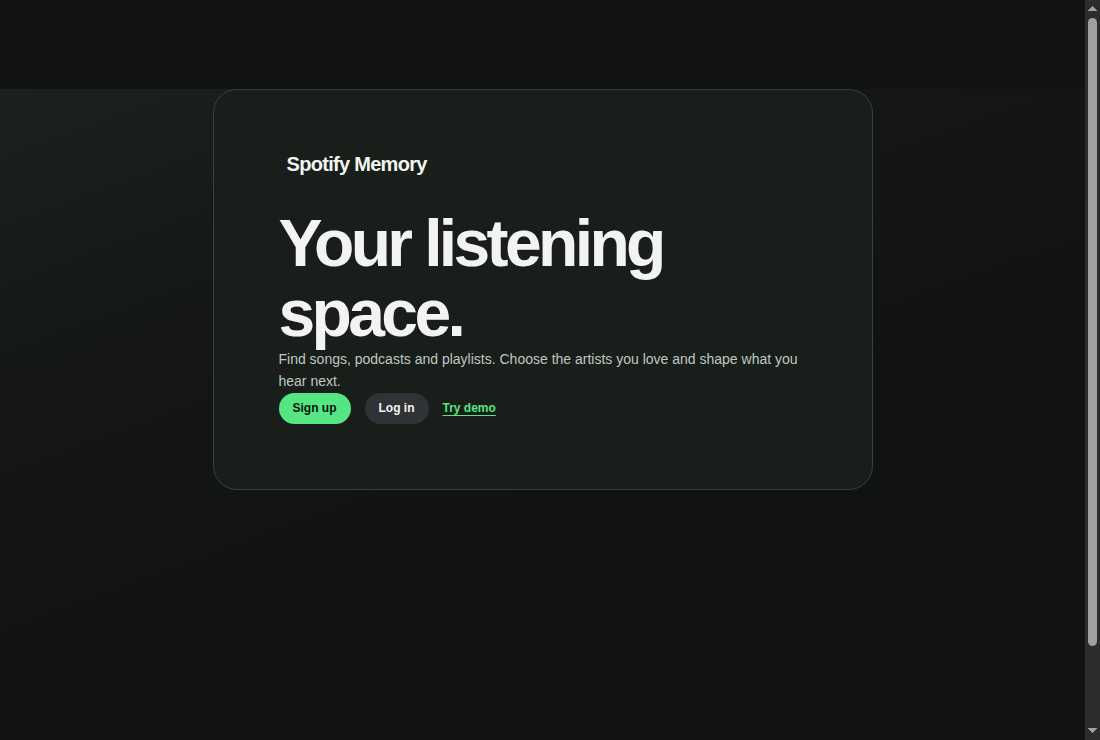
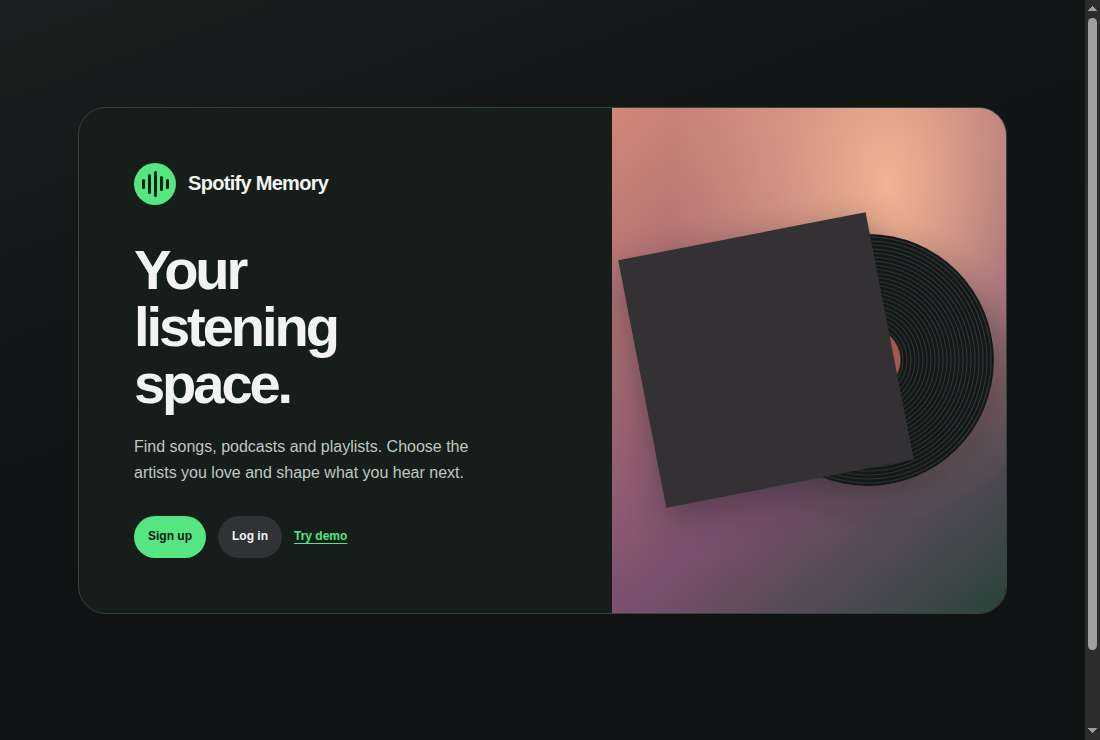
Update screenshots and verify each completed filter change

Changed region(s): [[0.1236, 0.1243, 0.9273, 0.8392], [0.1236, 0.6838, 0.34, 0.777], [0.9891, 0.8703, 1.0, 0.9014]]

diff --git a/tests/browser.test.js b/tests/browser.test.js
@@ -47,30 +47,24 @@ test('desktop and narrow listening desk supports account signup, feedback and gu
     if(result.exceptionDetails)throw Error(result.exceptionDetails.exception?.description || 'Page evaluation failed');
     return result.result.value;
   }
-  async function snapshot(name){
-    if(!process.env.GITHUB_ACTIONS)return;
-    const {data}=await send('Page.captureScreenshot',{format:'jpeg',quality:60});
-    for(let p=0;p<data.length;p+=1600)console.log('CARDIMG '+name+' '+p+' '+data.slice(p,p+1600));
-  }
   const click=selector=>evaluate('document.querySelector('+JSON.stringify(selector)+').click()');
   const visible=selector=>until(()=>evaluate('!!document.querySelector('+JSON.stringify(selector)+')'));
   await send('Emulation.setDeviceMetricsOverride',{width:1100,height:740,deviceScaleFactor:1,mobile:false});
   await send('Page.navigate',{url:origin});
-  await visible('[data-auth=signup]');await snapshot('entry');
+  await visible('[data-auth=signup]');
   await click('[data-auth=signup]');
   await evaluate("const f=document.querySelector('#auth');f.email.value='qa@example.test';f.password.value='browser-test-passphrase';f.eligible.checked=true;f.requestSubmit()");
   await visible('#taste');
   await evaluate("const a=document.querySelectorAll('#taste input');a[0].value='Arijit Singh';a[1].value='Shreya Ghoshal';a[2].value='Sonu Nigam';document.querySelector('#taste').requestSubmit()");
   await until(()=>evaluate("!document.querySelector('dialog').open && document.querySelector('#view').textContent.includes('Tailored')"));
   
-  await visible('iframe.inline-player');await delay(1500);await snapshot('home');
   await evaluate("document.querySelector('[data-vote=less]').closest('details').open=true;document.querySelector('[data-vote=less]').click()");
   await visible('[data-undo]');assert.equal(await evaluate("document.querySelector('#workspace-menu').open"),false);await click('#workspace-menu summary');await click('[data-page=memories]');
   await visible('[data-taste]');await click('[data-undo]');
   await until(()=>evaluate("!document.querySelector('[data-undo]')"));
   await send('Emulation.setDeviceMetricsOverride',{width:390,height:844,deviceScaleFactor:1,mobile:true});
-  await click('[data-page=session]');await visible('[data-filter=episode]');await click('[data-filter=episode]');
-  await visible('[data-player^="episode:"]');await click('[data-filter=playlist]');await visible('[data-player^="playlist:"]');
+  await click('[data-page=session]');await visible('[data-filter=episode]');await click('[data-filter=episode]');await until(()=>evaluate("document.querySelector('[data-filter=episode]').getAttribute('aria-pressed')==='true'"));
+  await visible('[data-player^="episode:"]');await click('[data-filter=playlist]');await until(()=>evaluate("document.querySelector('[data-filter=playlist]').getAttribute('aria-pressed')==='true'"));await visible('[data-player^="playlist:"]');
   assert.ok(await evaluate("document.querySelector('iframe[data-player]').src.includes('/embed/playlist/')"));assert.equal(await evaluate("document.querySelector('dialog').open"),false);
   await click('#profile');await click('[data-logout]');await visible('[data-auth=guest]');await click('[data-auth=guest]');
   await visible('.musiccard');assert.equal(await evaluate("document.querySelector('#profile').textContent"),'Guest account');
